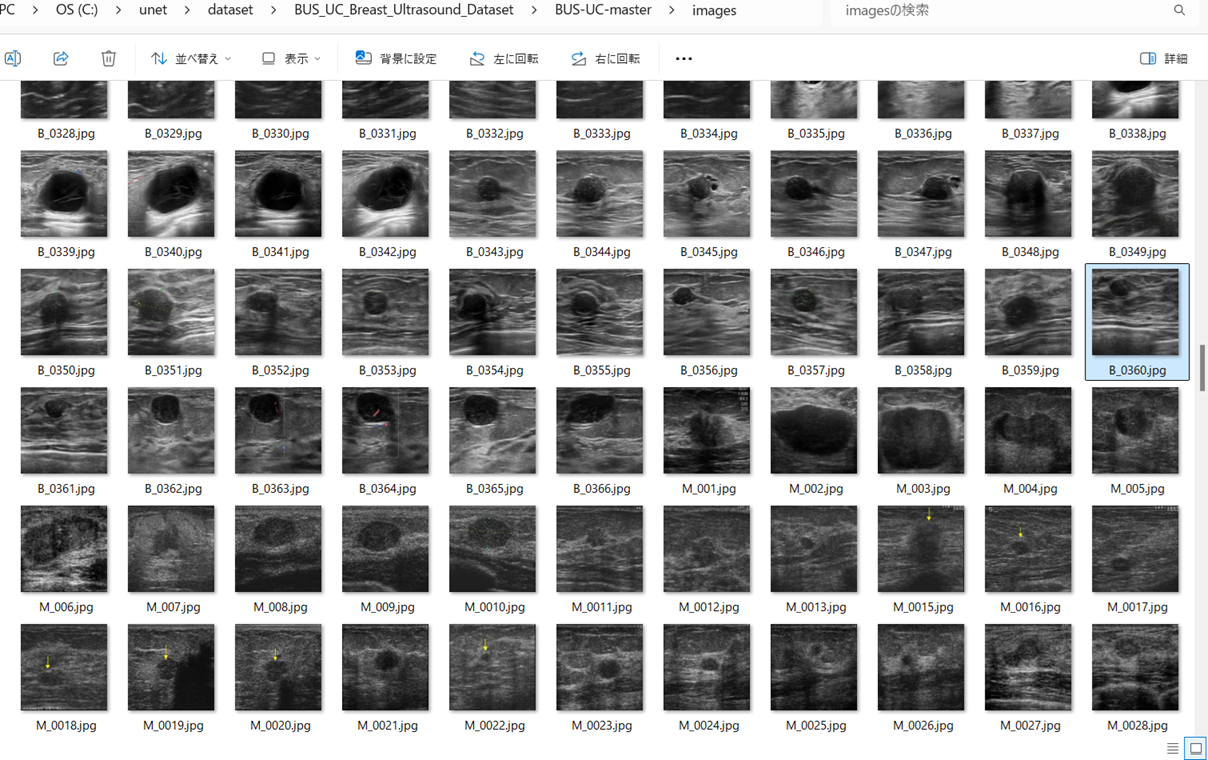
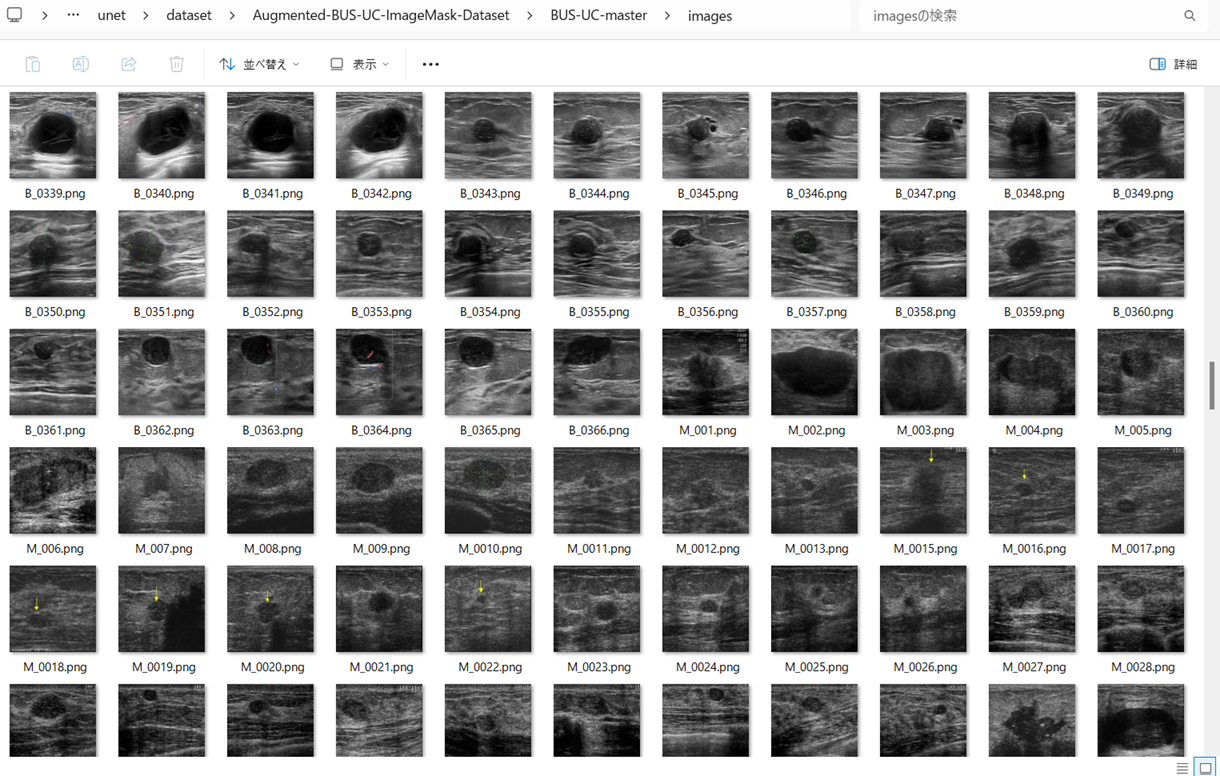
Modified to generate PNG dataset

diff --git a/MaskGrayscaler.py b/MaskGrayscaler.py
@@ -14,9 +14,7 @@
 #
 
 # 2025/05/15
-# MaskColorizer.py
-
-# 2025/05/19:  Modified to generate PNG files.
+# MaskGrayscaler.py
 
 import os
 import cv2
@@ -25,51 +23,47 @@ import shutil
 import numpy as np
 import traceback
 
-from GrayScaleImageWriter import GrayScaleImageWriter
+#from GrayScaleImageWriter import GrayScaleImageWriter
 
-class MaskColorizer:
+class MaskGrayscaler:
 
-  def __init__(self, images_dir, masks_dir, mask_color,
-                  output_filename_prefix, 
+  def __init__(self, images_dir, masks_dir, 
                   output_images_dir, output_masks_dir):
     W = 512
     H = 512
-    writer = GrayScaleImageWriter(image_format=".png",colorize=True, black="black", white=mask_color, verbose=False)
-
-    image_files = glob.glob(images_dir + "/*.png")
-    mask_files  = glob.glob(masks_dir  + "/*.png")
+ 
+    image_files = glob.glob(images_dir + "/*.jpg")
+    mask_files  = glob.glob(masks_dir  + "/*.jpg")
     for image_file in image_files:
       # Resize to (512x512)
       image = cv2.imread(image_file)
-
       image = cv2.resize(image, (W, H))
       basename = os.path.basename(image_file)
-      output_image_file = os.path.join(output_images_dir, output_filename_prefix + basename)
+      output_image_file = os.path.join(output_images_dir, basename)
       cv2.imwrite(output_image_file, image)
       print("Saved {}".format(output_image_file))
 
     for mask_file in mask_files:
       mask = cv2.imread(mask_file)
-     
-      mask = cv2.cvtColor(mask,  cv2.COLOR_BGR2GRAY)
+      mask = cv2.resize(mask, (W, H))
+      b, g, r = cv2.split(mask)
+      #gray = 0.299 * r + 0.587 * g + 0.114 * b  # BT.601
+      gray = 0.6 * r + 0.4 * g #+ 0.114 * b  # BT.601
 
+ 
       basename = os.path.basename(mask_file)
-      nameonly = basename.split(".")[0]
 
-      output_mask_file = os.path.join(output_masks_dir, output_filename_prefix + basename)
-      writer.save_resized(mask, (W, H), output_masks_dir,  output_filename_prefix + nameonly )
-  
+      output_mask_file = os.path.join(output_masks_dir, basename)
+      cv2.imwrite(output_mask_file, gray)    
       print("Saved {}".format(output_mask_file))
 
 
 if __name__ == "__main__":
 
   try:
-    images_dir = "./BUS_UC/Benign/images"
-    masks_dir  = "./BUS_UC/Benign/masks"
-    mask_color = "green" 
-    output_filename_prefix = "B_"
-    output_dir        = "./BUS-UC-master"
+    images_dir = "./BUS-UC-master/images"
+    masks_dir  = "./BUS-UC-master/masks"
+    output_dir        = "./BUS-UC-Grayscale-master"
     output_images_dir = output_dir + "/images"
     output_masks_dir  = output_dir + "/masks"
 
@@ -81,23 +75,12 @@ if __name__ == "__main__":
     os.makedirs(output_masks_dir)
 
     # Create Benign image and green-colored mask files 
-    MaskColorizer(images_dir, masks_dir, mask_color,
-                  output_filename_prefix, 
+    MaskGrayscaler(images_dir, masks_dir, 
                   output_images_dir, output_masks_dir)
     
-    
-    images_dir = "./BUS_UC/Malignant/images"
-    masks_dir  = "./BUS_UC/Malignant/masks"
-    mask_color = "red"
-    output_filename_prefix = "M_"
-
-    # Create Malignant image and red-colored mask files 
-    MaskColorizer(images_dir, masks_dir, mask_color,
-                  output_filename_prefix, 
-                  output_images_dir, output_masks_dir)
-
   except:
     traceback.print_exc()
 
+    pass
 
     

diff --git a/ImageMaskDatasetGenerator.py b/ImageMaskDatasetGenerator.py
@@ -13,6 +13,7 @@
 # limitations under the License.
 #
 # 2025/05/16 ImageMaskDatasetGenerator.py
+# 2025/05/19 Modified to generate PNG files.
 
 import os
 import sys
@@ -68,7 +69,8 @@ class ImageMaskDatasetGenerator:
     if self.augmentation:
       self.hflip    = True
       self.vflip    = True
-      self.rotation = False
+      # 2025/05/19
+      self.rotation = True
       #self.ANGLES   = [20, 40, 60, 80, 100, 120, 140, 160, 180, 200, 220, 240, 260, 280, 300, 320, 340]
       self.ANGLES   = [90, 180, 270]
 
@@ -101,8 +103,11 @@ class ImageMaskDatasetGenerator:
 
 
   def generate(self):
-    mask_files  = glob.glob(self.masks_dir + "/*.jpg")
-    image_files = glob.glob(self.images_dir + "/*.jpg")
+    #2025/05/19
+    #mask_files  = glob.glob(self.masks_dir + "/*.jpg")
+    #image_files = glob.glob(self.images_dir + "/*.jpg")
+    mask_files  = glob.glob(self.masks_dir + "/*.png")
+    image_files = glob.glob(self.images_dir + "/*.png")
     masK_files = sorted(mask_files)
     image_file = sorted(image_files)
     l1 = len(mask_files)
@@ -150,7 +155,7 @@ class ImageMaskDatasetGenerator:
      #image = cv2.resize(image, (self.RESIZE))
      image = self.resize_to_square(image, mask=mask)
 
-     basename = str(index)  + ".jpg" 
+     basename = str(index)  + ".png" 
      filepath = os.path.join(output_dir, basename)
      cv2.imwrite(filepath, image)
      if self.augmentation:
@@ -395,7 +400,7 @@ if __name__ == "__main__":
  
     images_dir  = "./BUS-UC-master/images/"
     masks_dir   = "./BUS-UC-master/masks/"
-    output_dir  = "./Augmented-BUS-UC-master"
+    output_dir  = "./Augmented-PNG-BUS-UC-master"
     angle       = cv2.ROTATE_90_COUNTERCLOCKWISE
     augmentation= True
     generator = ImageMaskDatasetGenerator(images_dir  = images_dir, 

diff --git a/split_augmented_master.py b/split_augmented_master.py
@@ -25,7 +25,7 @@ import traceback
 import random
 
 def split_master(images_dir, masks_dir, output_dir):
-  image_files = glob.glob(images_dir + "/*.jpg")
+  image_files = glob.glob(images_dir + "/*.png")
   random.seed(137)
   random.shuffle(image_files)
   num = len(image_files)
@@ -70,7 +70,7 @@ if __name__ == "__main__":
   try:
     images_dir = "./Augmented-BUS-UC-master/images/"
     masks_dir  = "./Augmented-BUS-UC-master/masks/"
-    output_dir = "./Augmented-BUS-UC-ImageMask-Dataset/"
+    output_dir = "./Augmented-PNG-BUS-UC-ImageMask-Dataset/"
 
     if os.path.exists(output_dir):
       shutil.rmtree(output_dir)

diff --git a/README.md b/README.md
@@ -1,5 +1,7 @@
-<h2>Augmented-BUS-UC-ImageMask-Dataset (2025/05/17)</h2>
+<h2>Augmented-BUS-UC-ImageMask-Dataset (Updated: 2025/05/19)</h2>
 
+<li>2025/05/19: Modified to generate PNG dataset.</li>
+<br>
 This is a 512x512 pixels Augmented BUS_UC Benign and Malignant ImageMask Dataset derived by us from 
 <a href="https://data.mendeley.com/datasets/3ksd7w7jkx/1">
 Mendeley Data: BUS_UC</a>
@@ -7,9 +9,16 @@ Mendeley Data: BUS_UC</a>
 
 <br>
 <b>Download our dataset</b><br>
-You can download our dataset from the google drive 
+You can download our PNG dataset from the google drive:<br>
+<li>
+<a href="https://drive.google.com/file/d/1fA9j_vM_c5K98Bqd-Urmq2FYFHw_jS7R/view?usp=sharing">
+Augemented-PNG-BUS-UC-ImageMask-Data.zip</a>
+</li>
+and JPG dataset<br>
+<li>
 <a href="https://drive.google.com/file/d/1ObyZhN7up0Crhxsi5dkcu9oUo_zVQCL3/view?usp=sharing">
 Augemented-BUS-UC-ImageMask-Data.zip</a>
+</li>
 <br>
 
 <h3>1. Dataset Citation</h3>
@@ -99,14 +108,14 @@ to augment BUS-UC-master dataset, The tool supports the following data augmentat
 
 <h3>2.3 Split master</h3>
 
-Please run the following command for Python <a href="./split_augmented_master.py">split_augmented__master.py</a> 
+Please run the following command for Python <a href="./split_augmented_master.py">split_augmented_master.py</a> 
 <br>
 <pre>
 >python split_augmented_master.py
 </pre>
-This splits Augmented-BUS-UC-master into test, train and valid subdatasets.<br>
+This splits Augmented-PNG-BUS-UC-master into test, train and valid subdatasets.<br>
 <pre>
-./Augmented-BUS-UC-ImageMask-Dataset
+./Augmented-PNG-BUS-UC-ImageMask-Dataset
 ├─test
 │  ├─images
 │  └─masks
@@ -119,10 +128,10 @@ This splits Augmented-BUS-UC-master into test, train and valid subdatasets.<br>
 </pre>
 <hr>
 Train images sample<br>
-<img src="./asset/Augmented-BUS-UC-ImageMaskDataset-train-images-sample.png" width=1024 heigh="auto"><br><br>
+<img src="./asset/Augmented-PNG-BUS-UC-ImageMaskDataset-train-images-sample.png" width=1024 heigh="auto"><br><br>
 Train mask sample<br>
-<img src="./asset/Augmented-BUS-UC-ImageMaskDataset-train-masks-sample.png" width=1024 heigh="auto"><br><br>
+<img src="./asset/Augmented-PNG-BUS-UC-ImageMaskDataset-train-masks-sample.png" width=1024 heigh="auto"><br><br>
 
 
 Dataset Statistics <br>
-<img src="./Augmented-BUS-UC-ImageMask-Dataset_Statistics.png" width="512" height="auto"><br>
+<img src="./Augmented-PNG-BUS-UC-ImageMask-Dataset_Statistics.png" width="512" height="auto"><br>
